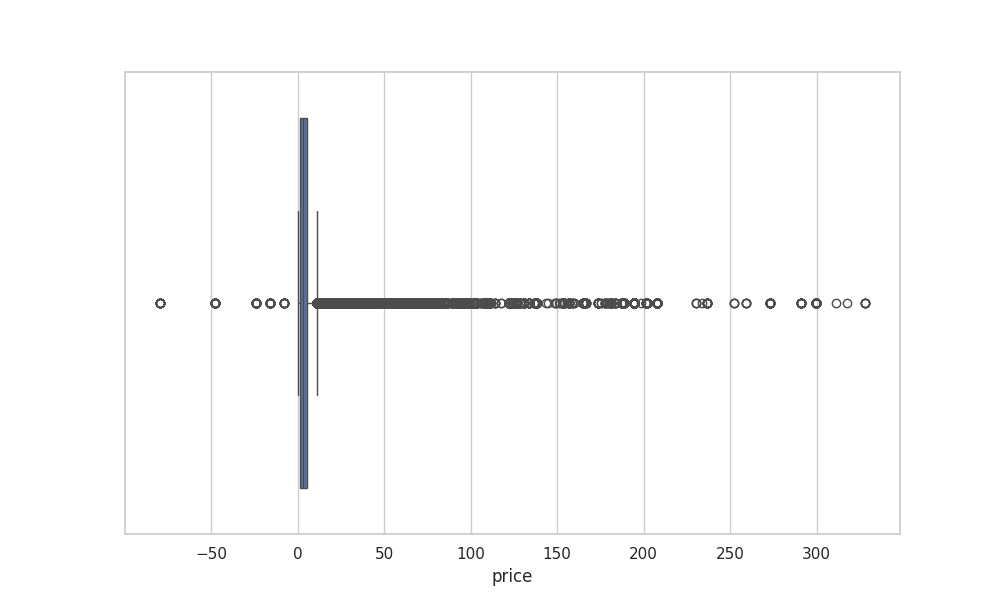
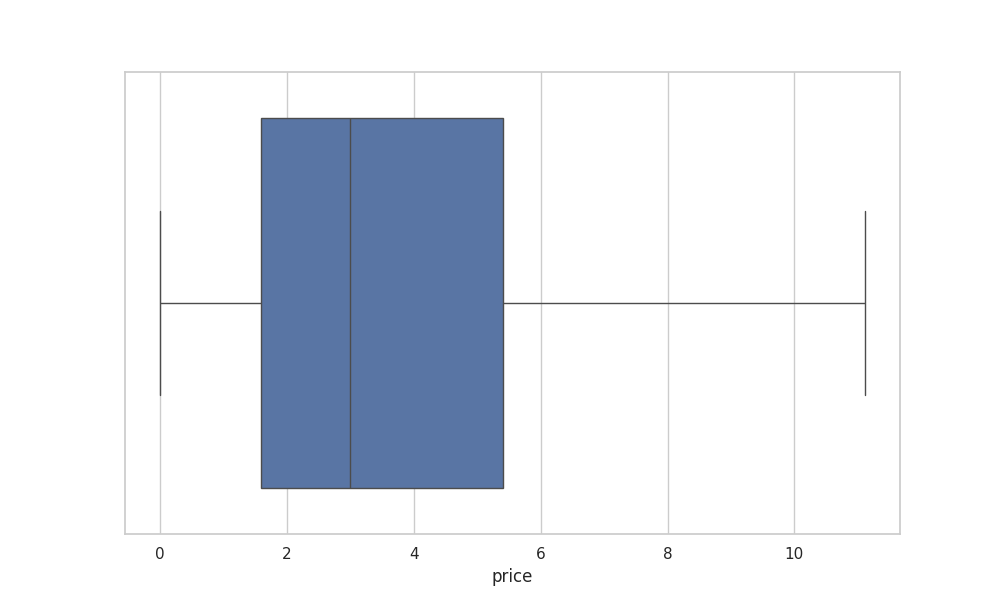
ex01

diff --git a/projects/module02/ex02/mustache.py b/projects/module02/ex02/mustache.py
@@ -74,29 +74,125 @@ def mustache_data(data):
 		f"max:	{df['max_price'].iloc[0]:>{max_width}.6f}"
 	)
 
-def generate_box_plot():
+# def generate_box_plot():
+#     try:
+
+#         consulta_sql = f"""SELECT
+#             price
+#         FROM customers
+#         WHERE event_type = 'purchase'
+#         """
+#         df = pd.DataFrame(data)
+
+#         plt.figure(figsize=(10, 6))
+
+#         sns.set(style="whitegrid")
+#         ax = sns.boxplot(x=df['price'])
+
+#         ax.set_xlabel('price')
+
+#         plt.savefig("test.png")
+#         plt.close()
+#     except Exception as e:
+#         print(f"Error: {e}")
+#         return None
+
+
+# def generate_box_pgenerate_boxplot_plot():
+#     try:
+#         start_time = time.time()
+#         with engine.connect() as conn:
+#             consulta_sql = f"""
+#             SELECT
+#                 price
+#             FROM customers
+#             WHERE event_type = 'purchase'
+#             """
+#             result = conn.execute(text(consulta_sql))
+#             data = result.fetchall()
+#             df = pd.DataFrame(data)
+#             print(f"Generated {result.rowcount} rows")
+#             end_time = time.time()
+#             print(f"Elapsed time: {end_time - start_time:.2f} seconds\n")
+
+#             plt.figure(figsize=(10, 6))
+
+#             sns.set(style="whitegrid")
+#             ax = sns.boxplot(x=df['price'])
+
+#             ax.set_xlabel('price')
+
+#             plt.savefig("test.png")
+#             plt.close()
+#     except Exception as e:
+#         print(f"Error: {e}")
+#         return None
+
+# def generate_boxplot_plot_showfliers():
+#     try:
+#         start_time = time.time()
+#         with engine.connect() as conn:
+#             consulta_sql = f"""
+#             SELECT
+#                 price
+#             FROM customers
+#             WHERE event_type = 'purchase'
+#             """
+#             result = conn.execute(text(consulta_sql))
+#             data = result.fetchall()
+#             df = pd.DataFrame(data)
+#             print(f"Generated {result.rowcount} rows")
+#             end_time = time.time()
+#             print(f"Elapsed time: {end_time - start_time:.2f} seconds\n")
+
+#             plt.figure(figsize=(10, 6))
+
+#             sns.set(style="whitegrid")
+#             ax = sns.boxplot(x=df['price'], showfliers=False)
+
+#             ax.set_xlabel('price')
+
+#             plt.savefig("box_with_showfliers.png")
+#             plt.close()
+#     except Exception as e:
+#         print(f"Error: {e}")
+#         return None
+
+def generate_boxplot_comparison():
     try:
+        start_time = time.time()
+        with engine.connect() as conn:
+            consulta_sql = """
+            SELECT
+                price
+            FROM customers
+            WHERE event_type = 'purchase'
+            """
+            result = conn.execute(text(consulta_sql))
+            data = result.fetchall()
+            df = pd.DataFrame(data, columns=['price'])
 
-        consulta_sql = f"""SELECT
-            price
-        FROM customers
-        WHERE event_type = 'purchase'
-        """
-        df = pd.read_sql(consulta_sql, pandas_url)
+            print(f"Generated {result.rowcount} rows")
+            end_time = time.time()
+            print(f"Elapsed time: {end_time - start_time:.2f} seconds\n")
 
-        plt.figure(figsize=(10, 6))
+            plt.figure(figsize=(10, 12))
 
-        sns.set(style="whitegrid")
-        ax = sns.boxplot(x=df['price'])
+            plt.subplot(2, 1, 1)
+            sns.set(style="whitegrid")
+            ax1 = sns.boxplot(x=df['price'], showfliers=True)
+            ax1.set_xlabel('Price')
 
-        ax.set_xlabel('price')
+            plt.subplot(2, 1, 2) 
+            sns.set(style="whitegrid")
+            ax2 = sns.boxplot(x=df['price'], showfliers=False)
+            ax2.set_xlabel('Price')
 
-        plt.savefig("test.png")
-        plt.close()
+            plt.savefig("boxplot_comparison.png")
+            plt.close()
     except Exception as e:
         print(f"Error: {e}")
         return None
-		
 
 def main():
     # exercice 1
@@ -104,9 +200,10 @@ def main():
     mustache_data(result)
 
     # exercice 2 crea mi tabla temporal
-    # mustache_rider_day('customers', '2022-10-01', '2023-03-01')
-    generate_box_plot()
-    # pandas_url.dispose()
+    generate_boxplot_comparison()
+
+
+
     
 if __name__ == "__main__":
     main()
